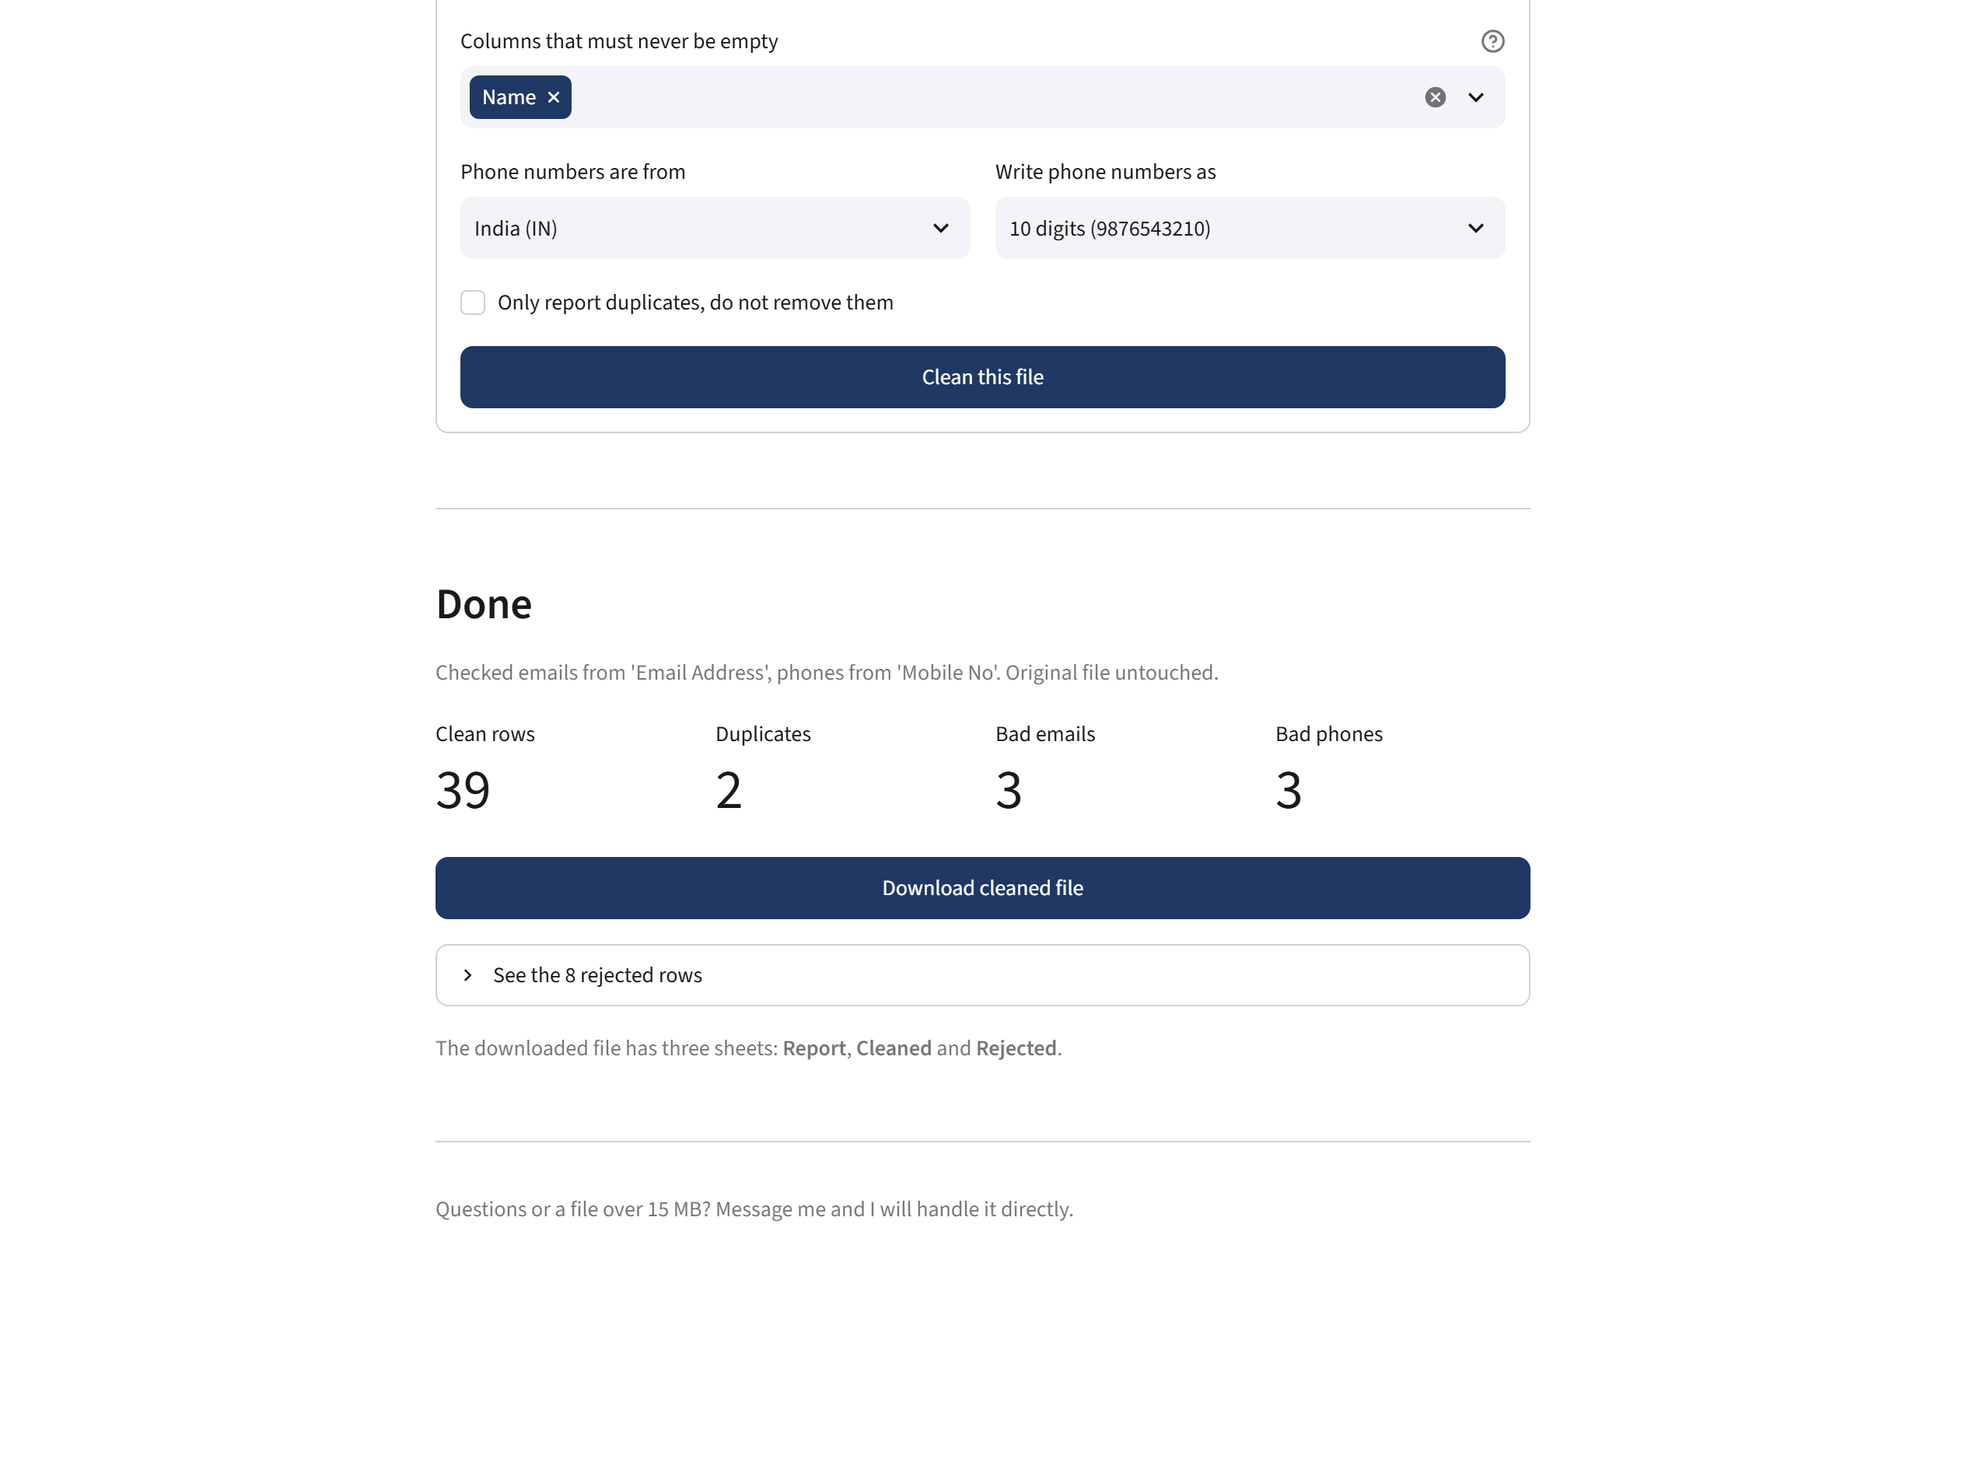
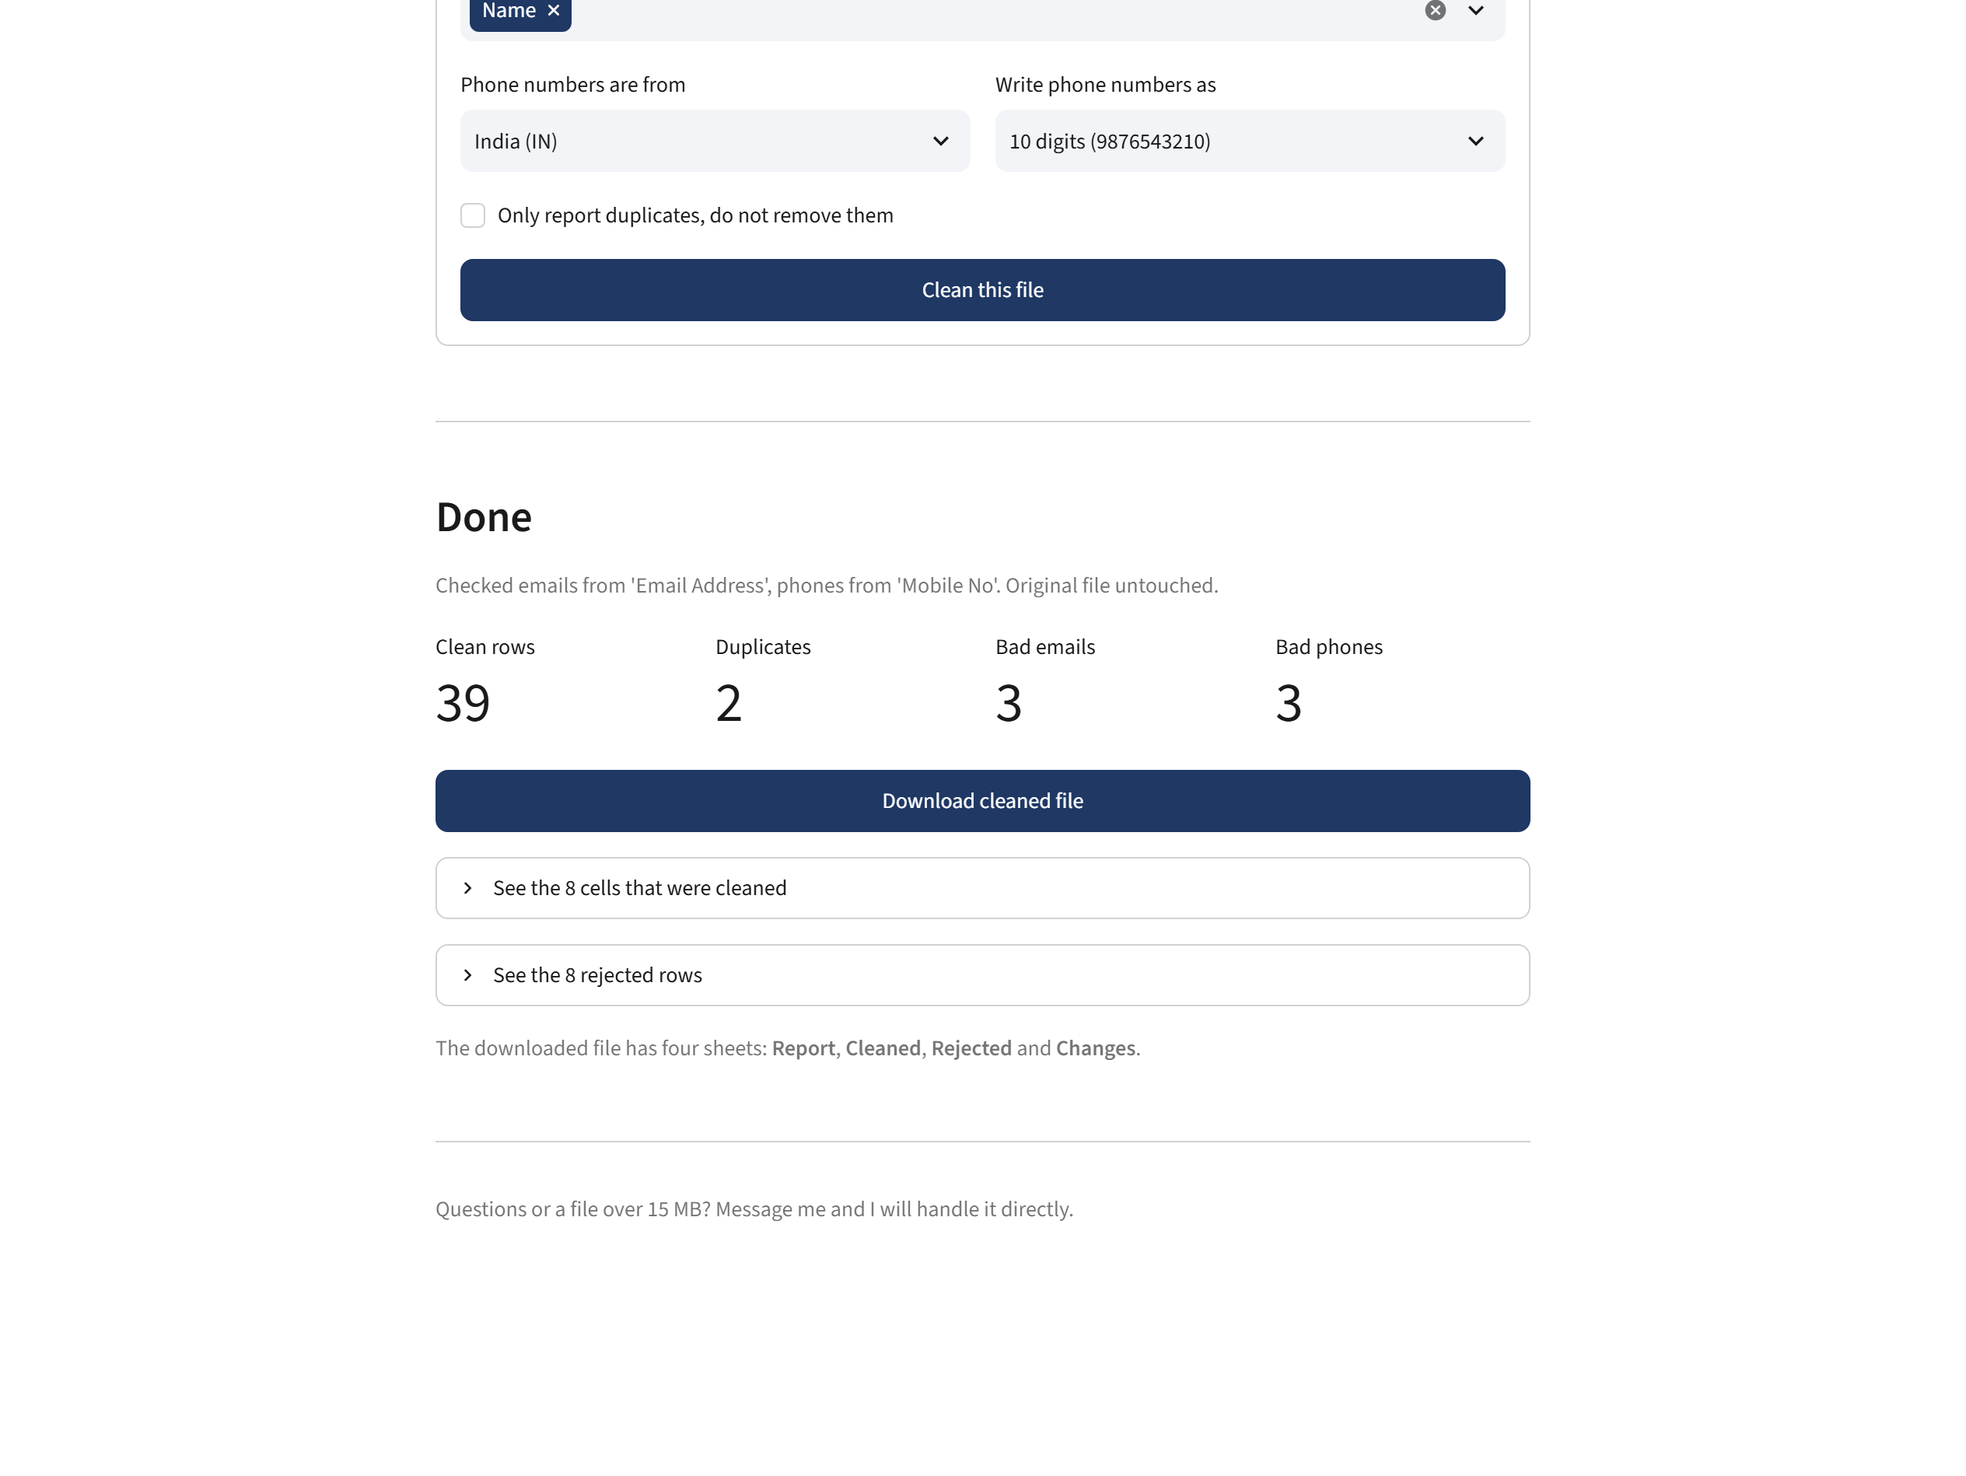
Add Changes sheet showing every cell that was fixed
The Rejected sheet said what was thrown away; nothing said what was fixed.
The download now carries a fourth sheet with the original value, the new
value and the kind of fix for every altered cell.

- cleaner.py: track per-row changes after normalisation, count them in
  Stats.cells_cleaned, cap the list at 20,000 so a huge file cannot produce
  an unusable workbook
- report.py: Changes sheet plus a 'What was fixed' breakdown on the Report
- app.py / webapp_core.py: an expander listing the cleaned cells on screen
- 6 new tests (103 total) including rejected rows never appearing in Changes
- .github/workflows: test on Python 3.10-3.12, badge in the README
- refreshed screenshots

diff --git a/src/cleaner.py b/src/cleaner.py
@@ -13,6 +13,7 @@ Rules, in the order they are applied to each row:
 
 from __future__ import annotations
 
+import re
 from dataclasses import dataclass, field
 
 import pandas as pd
@@ -22,6 +23,8 @@ from .reader import resolve_column
 from .validators import clean_text, normalize_email, normalize_phone
 
 REASON_DUPLICATE = "duplicate"
+SPACING_RE = re.compile(r"\s+")
+CHANGE_LIMIT = 20_000
 
 
 @dataclass
@@ -36,11 +39,17 @@ class Stats:
     blank_email: int = 0
     blank_phone: int = 0
     blank_rows: int = 0
+    cells_cleaned: int = 0
     reason_counts: dict[str, int] = field(default_factory=dict)
+    fix_counts: dict[str, int] = field(default_factory=dict)
 
     def note(self, reason: str) -> None:
         head = reason.split(":")[0].split(" (")[0].strip()
         self.reason_counts[head] = self.reason_counts.get(head, 0) + 1
+
+    def note_fix(self, kind: str) -> None:
+        self.cells_cleaned += 1
+        self.fix_counts[kind] = self.fix_counts.get(kind, 0) + 1
 
 
 @dataclass
@@ -49,6 +58,8 @@ class CleanResult:
     rejected: pd.DataFrame
     stats: Stats
     mapping: dict[str, str]
+    changes: pd.DataFrame = field(default_factory=pd.DataFrame)
+    changes_truncated: bool = False
     duplicates_examples: list[str] = field(default_factory=list)
 
 
@@ -83,10 +94,12 @@ def clean(df: pd.DataFrame, cfg: Config) -> CleanResult:
     stats = Stats(total_rows=len(df))
     kept_rows: list[dict] = []
     rejected_rows: list[dict] = []
+    changes: list[dict] = []
     seen_email: dict[str, int] = {}
     seen_phone: dict[str, int] = {}
     seen_row: dict[tuple, int] = {}
     duplicate_examples: list[str] = []
+    changes_truncated = False
 
     for offset, values in enumerate(df.itertuples(index=False, name=None)):
         row_no = cfg.header_row + 1 + offset
@@ -129,6 +142,8 @@ def clean(df: pd.DataFrame, cfg: Config) -> CleanResult:
                 continue
             if not record.get(col, "").strip():
                 problems.append(f"missing required field: {col}")
+
+        row_changes = _changes_for_row(row_no, raw, record, mapping)
 
         if problems:
             stats.missing_required += sum(1 for p in problems if p.startswith("missing required"))
@@ -175,10 +190,59 @@ def clean(df: pd.DataFrame, cfg: Config) -> CleanResult:
         if phone_value:
             seen_phone.setdefault(phone_value, row_no)
         seen_row.setdefault(row_key, row_no)
+        for item in row_changes:
+            stats.note_fix(item["Fix"])
+        if changes_truncated or len(changes) + len(row_changes) > CHANGE_LIMIT:
+            changes_truncated = True
+        else:
+            changes.extend(row_changes)
         kept_rows.append(record)
 
     stats.kept = len(kept_rows)
 
     cleaned = pd.DataFrame(kept_rows, columns=columns)
     rejected = pd.DataFrame(rejected_rows, columns=["Row #", "Reason", *columns])
-    return CleanResult(cleaned, rejected, stats, mapping, duplicate_examples)
+    changes_df = pd.DataFrame(changes, columns=["Row #", "Column", "Before", "After", "Fix"])
+    return CleanResult(
+        cleaned=cleaned,
+        rejected=rejected,
+        stats=stats,
+        mapping=mapping,
+        changes=changes_df,
+        changes_truncated=changes_truncated,
+        duplicates_examples=duplicate_examples,
+    )
+
+
+def _changes_for_row(row_no: int, raw: dict, record: dict, mapping: dict) -> list[dict]:
+    """List every cell this row's cleaning actually altered.
+
+    This is the proof-of-work sheet: the client sees
+    ``+91 98765 43210 -> 9876543210`` and understands what they paid for.
+    """
+    found: list[dict] = []
+    email_col = mapping.get("email")
+    phone_col = mapping.get("phone")
+
+    for col, original in raw.items():
+        if original is None or (isinstance(original, float) and original != original):
+            before = ""
+        else:
+            before = str(original)
+        after = record.get(col, "")
+        if before == after:
+            continue
+
+        if col == email_col:
+            kind = "email"
+        elif col == phone_col:
+            kind = "phone"
+        elif SPACING_RE.sub(" ", before).strip() == after:
+            kind = "spacing"
+        else:
+            kind = "text"
+
+        found.append(
+            {"Row #": row_no, "Column": col, "Before": before, "After": after, "Fix": kind}
+        )
+    return found

diff --git a/src/report.py b/src/report.py
@@ -9,7 +9,7 @@ import pandas as pd
 from openpyxl.styles import Alignment, Border, Font, PatternFill, Side
 from openpyxl.utils import get_column_letter
 
-from .cleaner import CleanResult
+from .cleaner import CHANGE_LIMIT, CleanResult
 from .config import Config
 
 HEADER_FILL = PatternFill("solid", fgColor="1F3864")
@@ -31,12 +31,14 @@ def write_workbook(result: CleanResult, cfg: Config, out_path: str | Path) -> Pa
     with pd.ExcelWriter(out, engine="openpyxl") as writer:
         result.cleaned.to_excel(writer, sheet_name="Cleaned", index=False)
         result.rejected.to_excel(writer, sheet_name="Rejected", index=False)
+        result.changes.to_excel(writer, sheet_name="Changes", index=False)
 
         report = writer.book.create_sheet("Report", 0)
         _fill_report(report, result, cfg)
 
         _style_data_sheet(writer.sheets["Cleaned"])
         _style_data_sheet(writer.sheets["Rejected"], reason_column=2)
+        _style_data_sheet(writer.sheets["Changes"])
         _style_report(report)
         writer.book.active = 0
 
@@ -70,6 +72,7 @@ def _fill_report(ws, result: CleanResult, cfg: Config) -> None:
         ("Rows rejected", stats.rejected, BAD_FONT if stats.rejected else GOOD_FONT),
         ("Duplicates removed", stats.duplicates_removed, BAD_FONT if stats.duplicates_removed else None),
         ("Blank rows dropped", stats.blank_rows, None),
+        ("Cells cleaned", stats.cells_cleaned, GOOD_FONT if stats.cells_cleaned else None),
         ("Invalid emails", stats.invalid_email, BAD_FONT if stats.invalid_email else None),
         ("Invalid phone numbers", stats.invalid_phone, BAD_FONT if stats.invalid_phone else None),
         ("Missing required fields", stats.missing_required, BAD_FONT if stats.missing_required else None),
@@ -91,12 +94,36 @@ def _fill_report(ws, result: CleanResult, cfg: Config) -> None:
             _write(ws, row, 2, count, border=True).alignment = Alignment(horizontal="right")
             row += 1
 
+    if stats.fix_counts:
+        row += 1
+        _write(ws, row, 1, "What was fixed", SECTION_FONT)
+        row += 1
+        labels = {
+            "email": "Emails normalised",
+            "phone": "Phone numbers normalised",
+            "spacing": "Extra spaces trimmed",
+            "text": "Text cleaned",
+        }
+        for kind, count in sorted(stats.fix_counts.items(), key=lambda kv: -kv[1]):
+            _write(ws, row, 1, labels.get(kind, kind), fill=LABEL_FILL, border=True)
+            _write(ws, row, 2, count, border=True).alignment = Alignment(horizontal="right")
+            row += 1
+        if result.changes_truncated:
+            _write(
+                ws,
+                row,
+                1,
+                f"(Change list capped at the first {CHANGE_LIMIT:,} cells)",
+            )
+            row += 1
+
     row += 1
     _write(ws, row, 1, "How to read this file", SECTION_FONT)
     row += 1
     notes = [
         "Cleaned - rows that passed every check, with emails and phones normalised.",
         "Rejected - nothing was deleted silently; every dropped row is listed with a reason.",
+        "Changes - every cell that was cleaned, shown before and after.",
         "Your original file has not been modified.",
     ]
     for note in notes:

diff --git a/tests/test_cleaner.py b/tests/test_cleaner.py
@@ -147,6 +147,59 @@ def test_keep_all_on_duplicate():
     assert result.stats.duplicates_removed == 1
 
 
+def test_changes_records_normalised_phone():
+    df = frame([("Rahul", "rahul@gmail.com", "+91 98765 43210")])
+    result = clean(df, config())
+    phone_rows = result.changes[result.changes["Column"] == "Mobile No"]
+    assert len(phone_rows) == 1
+    row = phone_rows.iloc[0]
+    assert row["Before"] == "+91 98765 43210"
+    assert row["After"] == "9876543210"
+    assert row["Fix"] == "phone"
+
+
+def test_changes_records_email_case_and_padding():
+    df = frame([("Rahul", "  Rahul@GMAIL.com ", "9876543210")])
+    result = clean(df, config())
+    row = result.changes[result.changes["Column"] == "Email Address"].iloc[0]
+    assert row["Before"] == "  Rahul@GMAIL.com "
+    assert row["After"] == "rahul@gmail.com"
+    assert row["Fix"] == "email"
+
+
+def test_changes_records_whitespace_only_edits():
+    df = frame([("  Rahul   Sharma  ", "rahul@gmail.com", "9876543210")])
+    result = clean(df, config())
+    row = result.changes[result.changes["Column"] == "Name"].iloc[0]
+    assert row["After"] == "Rahul Sharma"
+    assert row["Fix"] == "spacing"
+
+
+def test_already_clean_row_produces_no_changes():
+    df = frame([("Rahul Sharma", "rahul@gmail.com", "9876543210")])
+    result = clean(df, config())
+    assert result.changes.empty
+    assert result.stats.cells_cleaned == 0
+
+
+def test_changes_skip_rejected_rows():
+    # The phone would be fixed, but the row is thrown out for its email.
+    df = frame([("Karan", "karan@gmail", "+91 98765 43210")])
+    result = clean(df, config())
+    assert result.stats.rejected == 1
+    assert result.changes.empty
+
+
+def test_cells_cleaned_matches_change_rows():
+    df = frame([
+        ("  Rahul  ", "Rahul@GMAIL.com", "+91 98765 43210"),
+        ("Priya", "priya@yahoo.com", "9876543211"),
+    ])
+    result = clean(df, config())
+    assert result.stats.cells_cleaned == len(result.changes)
+    assert result.stats.cells_cleaned == 3  # name, email and phone for row 1; none for row 2
+
+
 def test_missing_cells_are_blank_not_the_word_nan():
     # Excel gaps arrive as NaN; str(nan) == "nan" and used to be "validated".
     df = pd.DataFrame([("Sameer", None, "9876543210")],

diff --git a/app.py b/app.py
@@ -183,6 +183,14 @@ if result is not None:
         width="stretch",
     )
 
+    if result.changes_total:
+        with st.expander(f"See the {result.changes_total:,} cells that were cleaned"):
+            st.caption(
+                "Every fix is shown before and after, and listed on the "
+                "**Changes** sheet in the downloaded file."
+            )
+            st.dataframe(result.changes_preview, width="stretch", hide_index=True)
+
     if result.rejected_total:
         with st.expander(f"See the {result.rejected_total:,} rejected rows"):
             st.caption(
@@ -194,7 +202,8 @@ if result is not None:
         st.info("No rows were rejected. Your file was already clean.")
 
     st.caption(
-        "The downloaded file has three sheets: **Report**, **Cleaned** and **Rejected**."
+        "The downloaded file has four sheets: **Report**, **Cleaned**, "
+        "**Rejected** and **Changes**."
     )
 
 st.divider()

diff --git a/src/webapp_core.py b/src/webapp_core.py
@@ -38,8 +38,10 @@ class ProcessResult:
     phone_col: str | None
     cleaned_preview: pd.DataFrame
     rejected_preview: pd.DataFrame
+    changes_preview: pd.DataFrame
     cleaned_total: int
     rejected_total: int
+    changes_total: int
 
 
 def _check(data: bytes, filename: str) -> str:
@@ -134,8 +136,10 @@ def process_file(
         phone_col=cfg.phone_col,
         cleaned_preview=result.cleaned.head(10),
         rejected_preview=result.rejected.head(50),
+        changes_preview=result.changes.head(50),
         cleaned_total=len(result.cleaned),
         rejected_total=len(result.rejected),
+        changes_total=len(result.changes),
     )
 
 __all__ = ["InspectResult", "ProcessResult", "inspect_file", "process_file", "MAX_BYTES"]

diff --git a/tests/test_end_to_end.py b/tests/test_end_to_end.py
@@ -55,7 +55,7 @@ def test_end_to_end_produces_three_sheets(dirty_xlsx, tmp_path, capsys):
     assert out.exists()
 
     book = load_workbook(out)
-    assert book.sheetnames == ["Report", "Cleaned", "Rejected"]
+    assert book.sheetnames == ["Report", "Cleaned", "Rejected", "Changes"]
     assert book["Cleaned"].max_row == 1 + 5     # 5 survivors
     assert book["Rejected"].max_row == 1 + 4    # 2 duplicates + 1 bad email + 1 bad phone
 

diff --git a/tests/test_webapp_core.py b/tests/test_webapp_core.py
@@ -55,7 +55,7 @@ class TestProcess:
         path.write_bytes(result.workbook)
 
         assert path.read_bytes()[:2] == b"PK"  # xlsx is a zip
-        assert load_workbook(path).sheetnames == ["Report", "Cleaned", "Rejected"]
+        assert load_workbook(path).sheetnames == ["Report", "Cleaned", "Rejected", "Changes"]
 
     def test_counts_are_correct(self):
         result = process_file(dirty_csv(), "contacts.csv")

diff --git a/src/__init__.py b/src/__init__.py
@@ -1,7 +1,7 @@
 """Excel contact-list cleaner.
 
 Reads a messy spreadsheet, normalises and validates email addresses and phone
-numbers, removes duplicates, and writes a three-sheet report workbook.
+numbers, removes duplicates, and writes a four-sheet report workbook.
 
 Run it with ``python -m src.main --help``.
 """

diff --git a/README.md b/README.md
@@ -1,5 +1,7 @@
 # Excel Cleanup Tool
 
+![tests](https://github.com/nexoratechin/excel-automation/actions/workflows/tests.yml/badge.svg)
+
 Turns a messy Excel or CSV contact list into a clean, import-ready file — and
 shows the client exactly what it changed and what it threw away.
 
@@ -57,7 +59,7 @@ What the page does:
 - lets them override the columns, the country, and the phone format
 - shows the counts (clean rows, duplicates, bad emails, bad phones) and the
   rejected rows **before** they download anything
-- hands back the same three-sheet workbook as the command line
+- hands back the same four-sheet workbook as the command line
 
 Guards: 15 MB limit, `.xlsx` / `.xlsm` / `.csv` only, and every error is shown as
 a plain sentence rather than a stack trace.
@@ -106,7 +108,7 @@ Output lands next to the input file in an `output` folder.
 
 ## The output workbook
 
-Three sheets, report first, because that is what the client actually looks at.
+Four sheets, report first, because that is what the client actually looks at.
 
 **Report** — one screen answering "what did you do to my file?":
 
@@ -130,6 +132,23 @@ original row number and a reason such as:
 
 This sheet is the difference between "a script" and "a service": the client can
 audit the result and trusts it, which is what earns repeat work.
+
+**Changes** — every cell that was actually altered, before and after:
+
+```
+Row #  Column        Before                  After             Fix
+3      Email Address Priya.Patel@Yahoo.com   priya.patel@yahoo.com  email
+3      Mobile No     +91 98765 43211         9876543211        phone
+4      Mobile No     09876543212             9876543212        phone
+6      Name            Vikram Singh           Vikram Singh      spacing
+```
+
+This is the sheet that justifies a monthly fee. The Rejected sheet says what was
+thrown away; this one says what was *fixed*, cell by cell. "59 rows, 8 cells
+cleaned" is a receipt. "I cleaned your file" is a claim.
+
+The list is capped at the first 20,000 changed cells so a huge file cannot
+produce an unusable workbook; the Report sheet says so when the cap is hit.
 
 ## What counts as a duplicate
 
@@ -246,7 +265,7 @@ python -m pytest
 python scripts/make_sample.py    # regenerate data/sample_dirty.xlsx
 ```
 
-97 tests cover the validators, the cleaning rules, column detection, the web
+103 tests cover the validators, the cleaning rules, column detection, the web
 app's processing path, and the full file-in/file-out flow. The three app smoke
 tests skip automatically if Streamlit is not installed.
 
@@ -260,7 +279,7 @@ src/
   reader.py        xlsx/csv loading, column detection, encoding fallback
   validators.py    email and phone normalisation
   cleaner.py       per-row checks, de-duplication, rejection reasons
-  report.py        styled three-sheet workbook
+  report.py        styled four-sheet workbook
 scripts/
   make_sample.py   generates the deliberately messy demo file
 tests/
